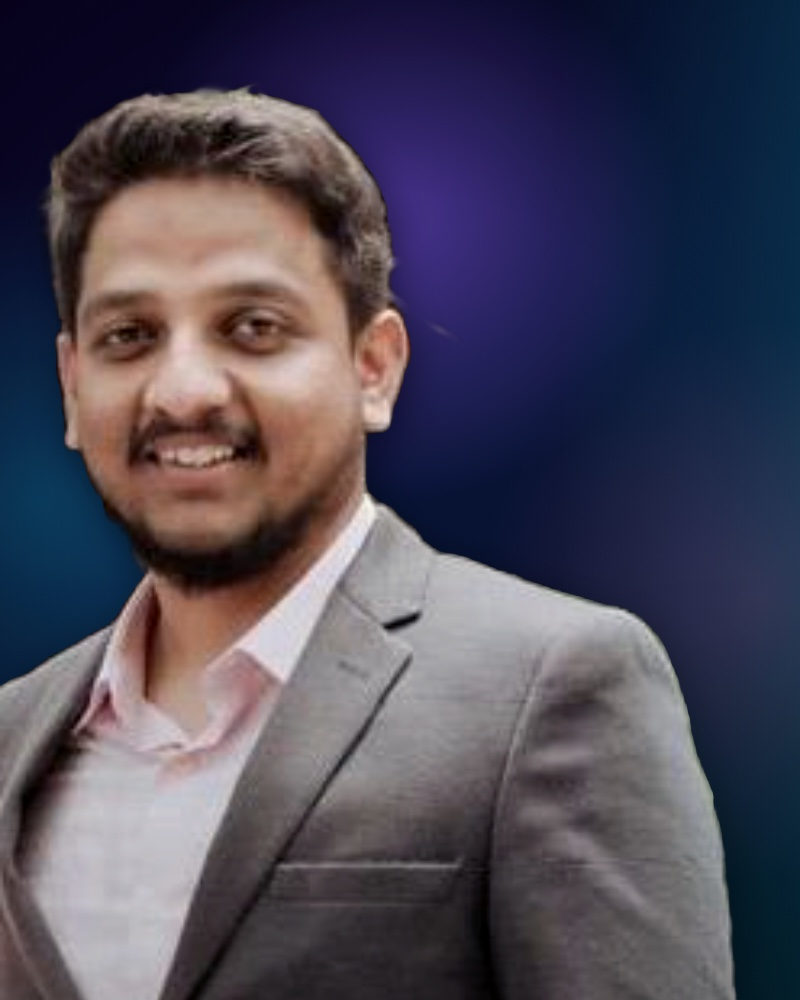
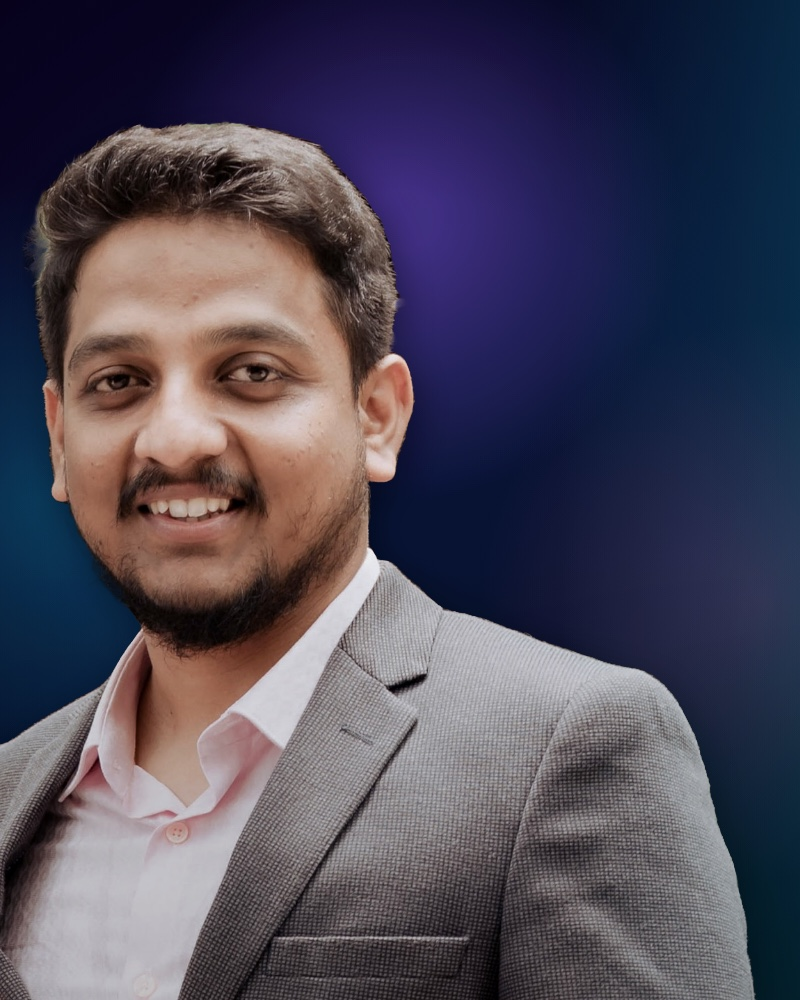
Rebuild hero portrait from the full-resolution original
Replaces the 284x470 WhatsApp-compressed source with the 5196x7790 original, so
the 800x1000 portrait is now downscaled rather than upscaled roughly 3x and is
sharp at Retina density.

The original is a two-person photo. Vision segments every person in frame, so
the crop starts at x=2920 to exclude the second subject entirely — a wider crop
left a detached fragment of her sleeve floating at the frame edge once the
background was removed.

diff --git a/AGENTS.md b/AGENTS.md
@@ -24,13 +24,14 @@ The generators drive headless Chrome. On macOS they use
 i.e. `ch = cw * 1.25`):
 
 ```
-node scripts/generate-avatar.mjs --cx=0 --cy=70 --cw=248 --ch=310
+node scripts/generate-avatar.mjs --cx=2920 --cy=1274 --cw=1150 --ch=1437
 ```
 
-Those values are tuned for the current source photo (a 284x469 WhatsApp-
-compressed image, so the result is upscaled and slightly soft — replace
-`avatar-source.jpg` with a higher-resolution original and re-tune when one is
-available). Notes:
+Those values are tuned for the current source photo: a 5196x7790 original in
+which the subject stands on the right of a two-person shot. The crop
+deliberately starts at x=2920 to exclude the second person — Vision segments
+*all* people in frame, so anything left of that boundary reappears as a
+detached fragment in the cut-out. Notes:
 
 - Chrome applies EXIF orientation automatically, so a rotated phone photo is
   already upright by the time it is cropped — use *display* coordinates.
